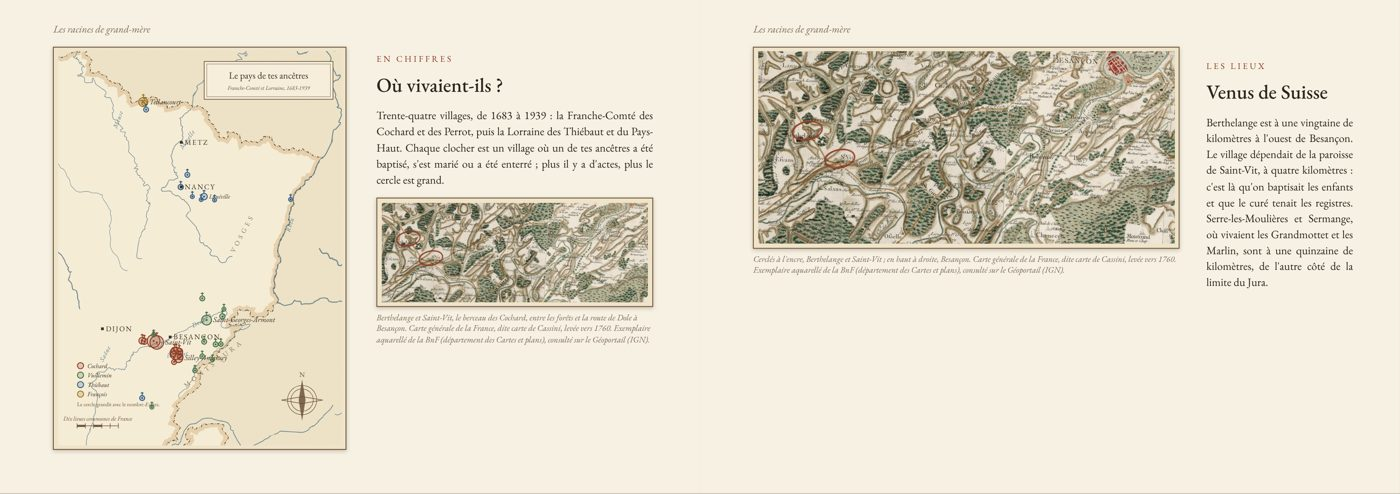
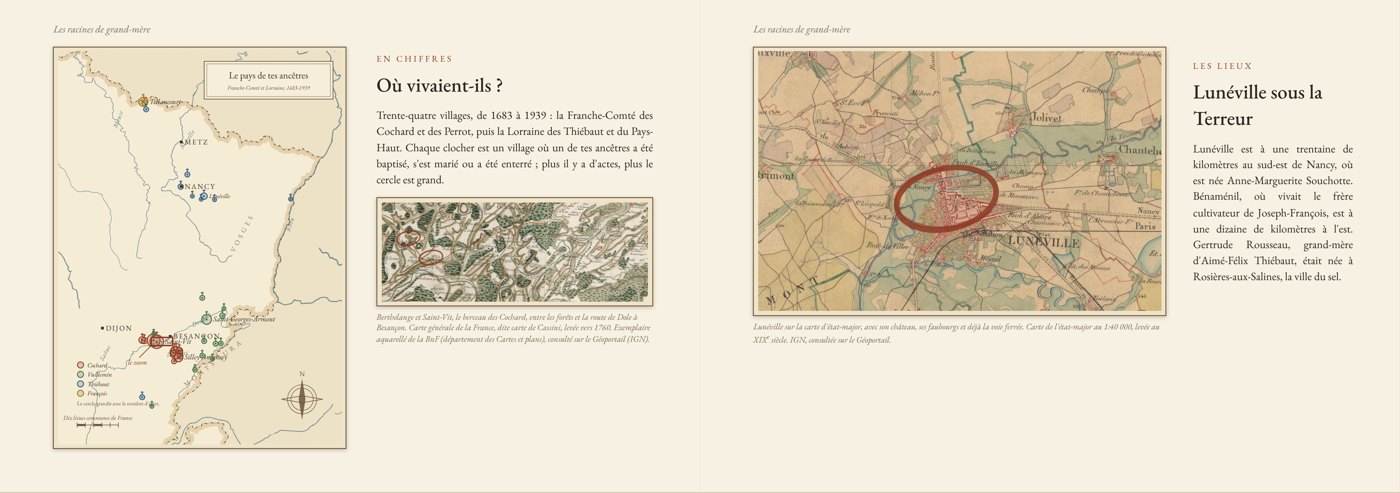
Visuel Lieux : rectangle de zoom, page état-major
Claude-Session: https://claude.ai/code/session_01GRbiVi5mc9yGVyEC7psftk

Changed region(s): [[0.5221, 0.0913, 0.9829, 0.6998], [0.0921, 0.6694, 0.1229, 0.7302]]

diff --git a/index.html b/index.html
@@ -276,7 +276,7 @@ footer .brand{font:500 22px var(--f-serif);color:var(--on-night)}
           <div><h3>Les actes, tels qu'on les lit</h3><p>Les actes photographiés dans les registres. Le passage qui compte est encadré, recopié avec l'orthographe du curé et traduit quand il est en latin.</p></div>
         </div>
         <div class="panel" role="tabpanel" id="p3" aria-labelledby="t3" hidden>
-          <img src="img/lieux.jpg" alt="Une page « Les lieux » avec un extrait de la carte de Cassini où deux villages sont cerclés à l'encre, et une carte ancienne des villages de la famille" width="1400" height="494" loading="lazy">
+          <img src="img/lieux.jpg" alt="La carte ancienne des villages de la famille avec un extrait de carte du XVIIIe siècle, et une page « Les lieux » montrant Lunéville sur la carte d'état-major" width="1400" height="493" loading="lazy">
           <div><h3>Les villages, sur les cartes de l'époque</h3><p>La carte des villages de la famille, où chaque cercle grandit avec le nombre d'actes ; puis chaque lignée sur une carte ancienne, Cassini sous Louis XV ou état-major au XIX<sup>e</sup> siècle, avec ses villages cerclés à l'encre.</p></div>
         </div>
         <div class="panel" role="tabpanel" id="p4" aria-labelledby="t4" hidden>
